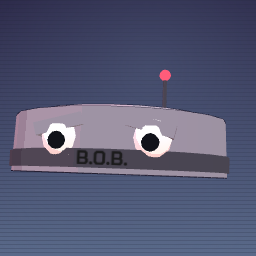
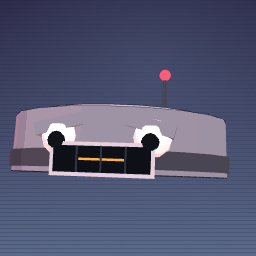
feat(ui): B.O.B. parle façon Bender — onde audio sur écran-grille + ref Futurama
Idle : LED ambre plate (triste). Talk : 11 barres en onde symétrique,
cyan avec crêtes ambre, sous une grille de « dents ». Re-bake bob-sheet/ref ;
Gary, Sylvie, Reine inchangés. Ton : + Futurama dans README et STORY.

Changed region(s): [[0.1875, 0.5312, 0.625, 0.7188]]

diff --git a/src/three/props.ts b/src/three/props.ts
@@ -39,21 +39,37 @@ export function bob(w: number): THREE.Group {
   const antenna = at(cyl(r * 0.02, r * 0.02, r * 0.5, '#3f4652', { edges: false }), r * 0.4, h + r * 0.3, -r * 0.3);
   const tip = at(sphere(r * 0.06, '#ff5c7a', { glow: true }), r * 0.4, h + r * 0.56, -r * 0.3);
   const plate = at(label('B.O.B.', r * 0.7, r * 0.18, { color: '#1a1a1a', bold: true }), 0, h * 0.28, r * 1.05);
-  // « bouche » : égaliseur LED sur la plaque, éteint au repos (invisible en salle)
-  const screen = at(box(r * 0.74, r * 0.2, r * 0.02, '#0b1018', { edges: false, shadow: false }), 0, h * 0.28, r * 1.06);
-  const bars = [-2, -1, 0, 1, 2].map((i) => at(box(r * 0.09, r * 0.16, r * 0.02, '#7fffd4', { glow: true, edges: false, shadow: false }), i * r * 0.13, h * 0.28, r * 1.08));
-  screen.visible = false;
-  bars.forEach((b) => (b.visible = false));
-  const g = group([body, bumper, lid, ...eyes, antenna, tip, plate, screen, ...bars]);
+  // « bouche » façon Bender : écran-grille où une onde danse avec la voix.
+  // Caché en salle (plaque B.O.B. visible) ; le studio de portraits l'allume.
+  const sy = h * 0.28;
+  const sz = r * 1.06;
+  const bezel = at(box(r * 0.8, r * 0.26, r * 0.02, '#c9d2dc', { edges: false, shadow: false }), 0, sy, sz - r * 0.01);
+  const screen = at(box(r * 0.74, r * 0.2, r * 0.02, '#0b1018', { edges: false, shadow: false }), 0, sy, sz);
+  // grille des « dents » : montants fins par-dessus l'onde
+  const grille = [-1, 0, 1].map((i) => at(box(r * 0.012, r * 0.2, r * 0.02, '#2a3442', { edges: false, shadow: false }), i * r * 0.185, sy, sz + r * 0.03));
+  // ligne plate : LED ambre triste au repos, trait cyan pâle sous l'onde en parlant
+  const flat = at(box(r * 0.62, r * 0.018, r * 0.02, '#ffb347', { glow: true, edges: false, shadow: false }), 0, sy, sz + r * 0.015);
+  const N = 11;
+  const bars = Array.from({ length: N }, (_, i) => at(box(r * 0.046, r * 0.17, r * 0.02, '#7fffd4', { glow: true, edges: false, shadow: false }), (i - (N - 1) / 2) * r * 0.06, sy, sz + r * 0.02));
+  const mouthParts = [bezel, screen, ...grille, flat, ...bars];
+  mouthParts.forEach((m) => (m.visible = false));
+  const g = group([body, bumper, lid, ...eyes, antenna, tip, plate, ...mouthParts]);
   g.userData.tip = tip;
   g.userData.setFace = (p: FacePose) => {
     const on = p.mouth > 0.02;
-    screen.visible = on;
+    plate.visible = false;
+    [bezel, screen, ...grille, flat].forEach((m) => (m.visible = true));
+    (flat.material as THREE.MeshBasicMaterial).color.set(on ? '#2f8f7a' : '#ffb347');
+    flat.scale.x = on ? 1 : 0.55;
     bars.forEach((b, i) => {
       b.visible = on;
-      // hauteur pseudo-aléatoire par barre, enveloppe = ouverture
-      const k = 0.25 + 0.75 * Math.abs(Math.sin(p.phase * 2.3 + i * 1.7));
-      b.scale.y = Math.max(0.12, p.mouth * k);
+      // onde symétrique autour de l'axe : enveloppe en cloche × sinusoïde qui glisse avec la phase
+      const t = (i - (N - 1) / 2) / ((N - 1) / 2);
+      const bell = 0.35 + 0.65 * Math.cos((t * Math.PI) / 2);
+      const wave = 0.3 + 0.7 * Math.abs(Math.sin(p.phase * 2.1 + i * 0.95));
+      b.scale.y = Math.max(0.1, p.mouth * bell * wave);
+      // crêtes en ambre, corps en cyan
+      (b.material as THREE.MeshBasicMaterial).color.set(b.scale.y > 0.62 ? '#ffd166' : '#7fffd4');
     });
     eyes.forEach((e) => (e.scale.y = p.blink ? 0.2 : 1));
     tip.visible = !p.blink;

diff --git a/README.md b/README.md
@@ -1,6 +1,6 @@
 # Quantum Janitor — Chapitre 0 : « Le Seau »
 
-Point & click narratif, *Space Quest* × *Rick & Morty*.
+Point & click narratif, *Space Quest* × *Rick & Morty* × *Paranoia* × *Futurama*.
 
 Gary Plunk (badge « Garry », merci la RH), agent d'entretien intérimaire sur la
 station *Klepsydra-9*, renverse son seau dans un Réacteur d'Improbabilité. La

diff --git a/docs/STORY.md b/docs/STORY.md
@@ -1,6 +1,6 @@
 # Quantum Janitor — Bible courte
 
-> *Space Quest* × *Rick & Morty*. Un agent d'entretien intérimaire, un seau
+> *Space Quest* × *Rick & Morty* × *Paranoia* × *Futurama*. Un agent d'entretien intérimaire, un seau
 > d'eau sale, et un multivers qui n'avait rien demandé.
 
 ## Pitch
